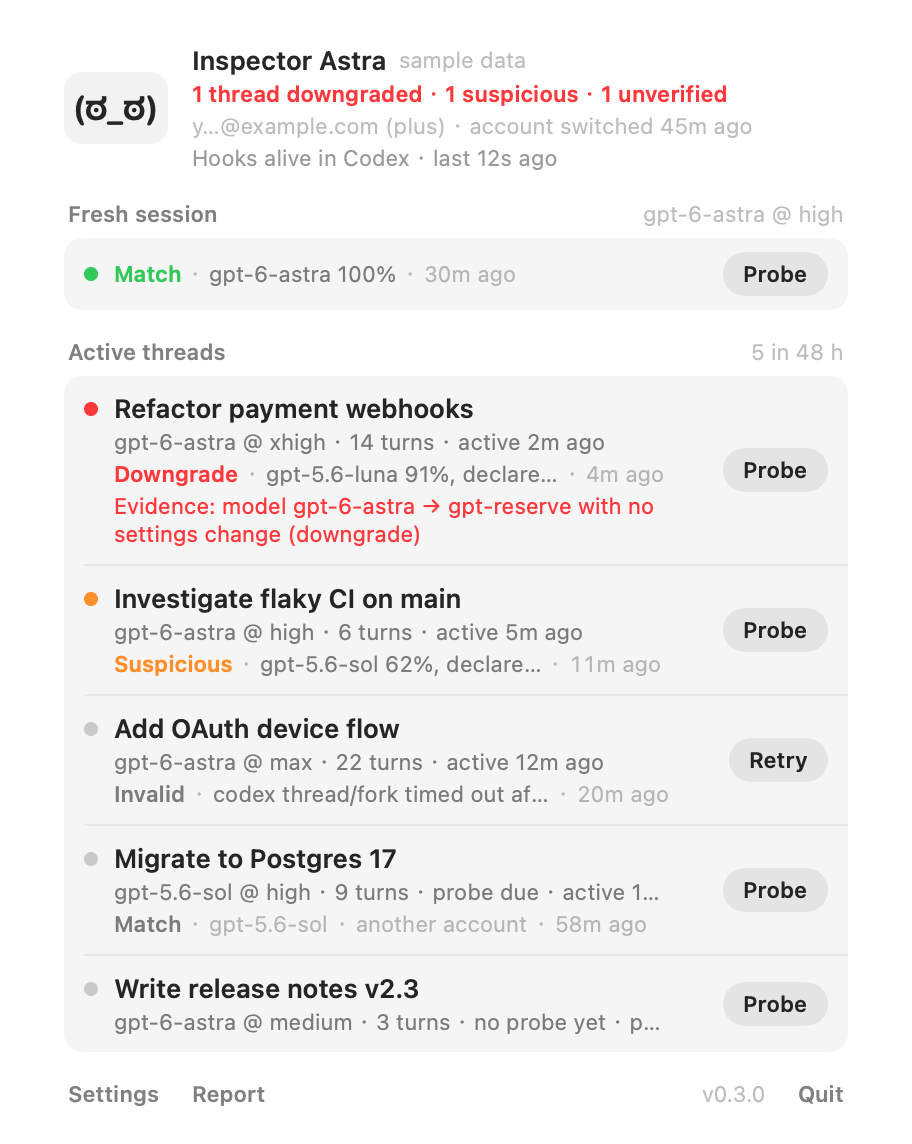
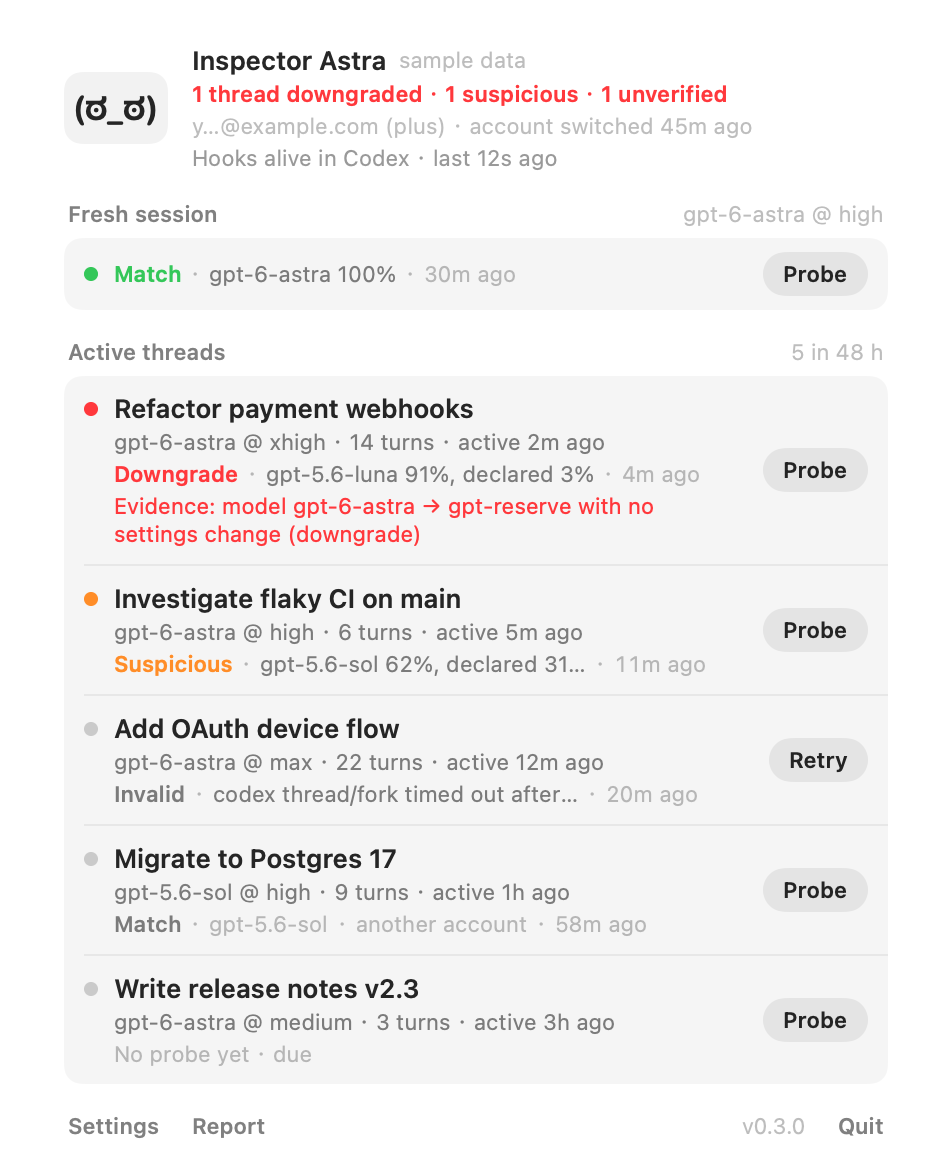
Panel: 440pt wide, consistent three-line rows (No probe yet as the third line), shorter meta line

diff --git a/macos/Sources/IsGPTNerfed/PanelView.swift b/macos/Sources/IsGPTNerfed/PanelView.swift
@@ -107,7 +107,7 @@ struct PanelView: View {
             footer
         }
         .padding(.horizontal, 14).padding(.top, 14).padding(.bottom, 10)
-        .frame(width: 420)
+        .frame(width: 440)
         .task { store.start() }
         .onAppear { Task { await store.refresh() } }
     }
@@ -288,6 +288,8 @@ struct ThreadRow: View {
                         }
                     } else if let p = thread.lastProbe {
                         VerdictLine(probe: p)
+                    } else {
+                        Text(thread.due ? "No probe yet · due" : "No probe yet").font(Type.text).foregroundStyle(.tertiary)
                     }
                     if thread.hardEvidence > 0, let ev = thread.lastEvidence {
                         Text("Evidence: \(ev)").font(Type.text).foregroundStyle(.red).lineLimit(2)
@@ -305,9 +307,7 @@ struct ThreadRow: View {
     private var meta: String {
         var parts = ["\(thread.model ?? "?")\(thread.effort.map { " @ \($0)" } ?? "")"]
         if thread.turns > 0 { parts.append(thread.turns == 1 ? "1 turn" : "\(thread.turns) turns") }
-        if thread.lastProbe == nil && !thread.probeRunning { parts.append("no probe yet") }
         if thread.halted { parts.append("halted") }
-        if thread.due { parts.append("probe due") }
         if let ago = thread.updatedAgo, !ago.isEmpty { parts.append("active \(ago)") }
         return parts.joined(separator: " · ")
     }

diff --git a/macos/Sources/IsGPTNerfed/App.swift b/macos/Sources/IsGPTNerfed/App.swift
@@ -55,7 +55,7 @@ final class AppDelegate: NSObject, NSApplicationDelegate {
             }
             for (suffix, settings) in [("", false), ("-settings", true)] {
                 let renderer = ImageRenderer(content: PanelView(showSettings: settings).environment(store).environment(\.plainRendering, true)
-                                                .frame(width: 440).padding(8).background(Color(nsColor: .windowBackgroundColor)))
+                                                .frame(width: 460).padding(8).background(Color(nsColor: .windowBackgroundColor)))
                 renderer.scale = 2
                 if let img = renderer.nsImage, let tiff = img.tiffRepresentation, let rep = NSBitmapImageRep(data: tiff),
                    let png = rep.representation(using: .png, properties: [:]) {
